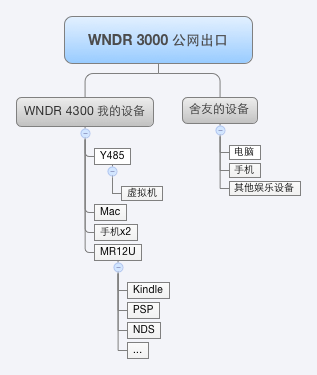
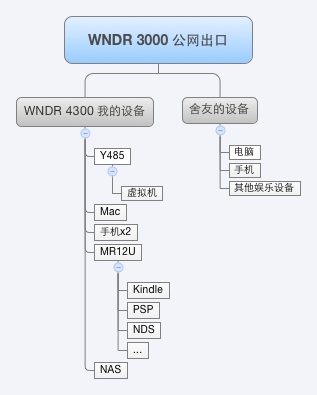
更新网络使用情况

diff --git a/network.md b/network.md
@@ -8,12 +8,17 @@
 
 - 主路由外接光猫，由我和舍友一同共用，已知路由同时接入设备过多，会影响性能，不如添加一个路由来分级处理，而且可以很方便的改路由表策略来实现高速内部网络环境。
 - 二级路由下又有三级路由是因为二级路由为了提高无线速度和安全性，对于2G和5G网络皆锁定频率到40HGz（这个是不符合标准的），传输使用AES+WPAK2（旧设备不支持），所以需要额外添加一个小路由做临时网络环境扩展。
+- 自己的网络环境有NAS存在，需要隔离网络，以及提供内部高速访问。
 
 ### 有线无线的混合使用
 
 - WNDR4300和 WNDR3000使用超五类线进行链接，达到路由间百兆带宽传输（传输速率10MB/s+）
 - WNDR提供双40HMz的无线信号，传输速率20MB/s+
 - WNDR4300和Y485使用超六类线连接，待利用（添加另外一台笔记本的时候，超六类的速率就发挥出来鸟）
+- 访问NAS
+	- 使用有线读写速度在60~80M/s+，
+	- 使用5G Wifi，读写速度在18~24M/s+（Mac）
+	- 娱乐设备未测试，DLNA完全不卡就足够了...
 
 ### 网络地址分配
 
@@ -23,6 +28,8 @@
 		- 笔记本设备地址`10.10.1.100~10.10.1.110`
 		- 手机等娱乐设备的地址`10.10.1.200~10.10.1.220`
 		- 开发虚拟机使用地址`10.10.1.150~10.10.1.180`
+	- NAS
+		- 第一台使用`10.10.10.99`
 	- 三级路由使用`10.10.10.1`
 		- 三级路由连接设备不做地址静态分配
 
@@ -32,4 +39,5 @@
 - [x] WNDR3000无线设置较强密码（考虑定期更换）
 - [x] WNDR4300无线设置较强密码（主要目的加密传输内容） && Mac绑定
 - [x] MR12U无线不设密码（妥协老设备且无加密必要性） && Mac绑定
+- [x] NAS简单的安全设置，以及用户组权限设置。
 - [ ] 笔记本皆禁止反向连接
